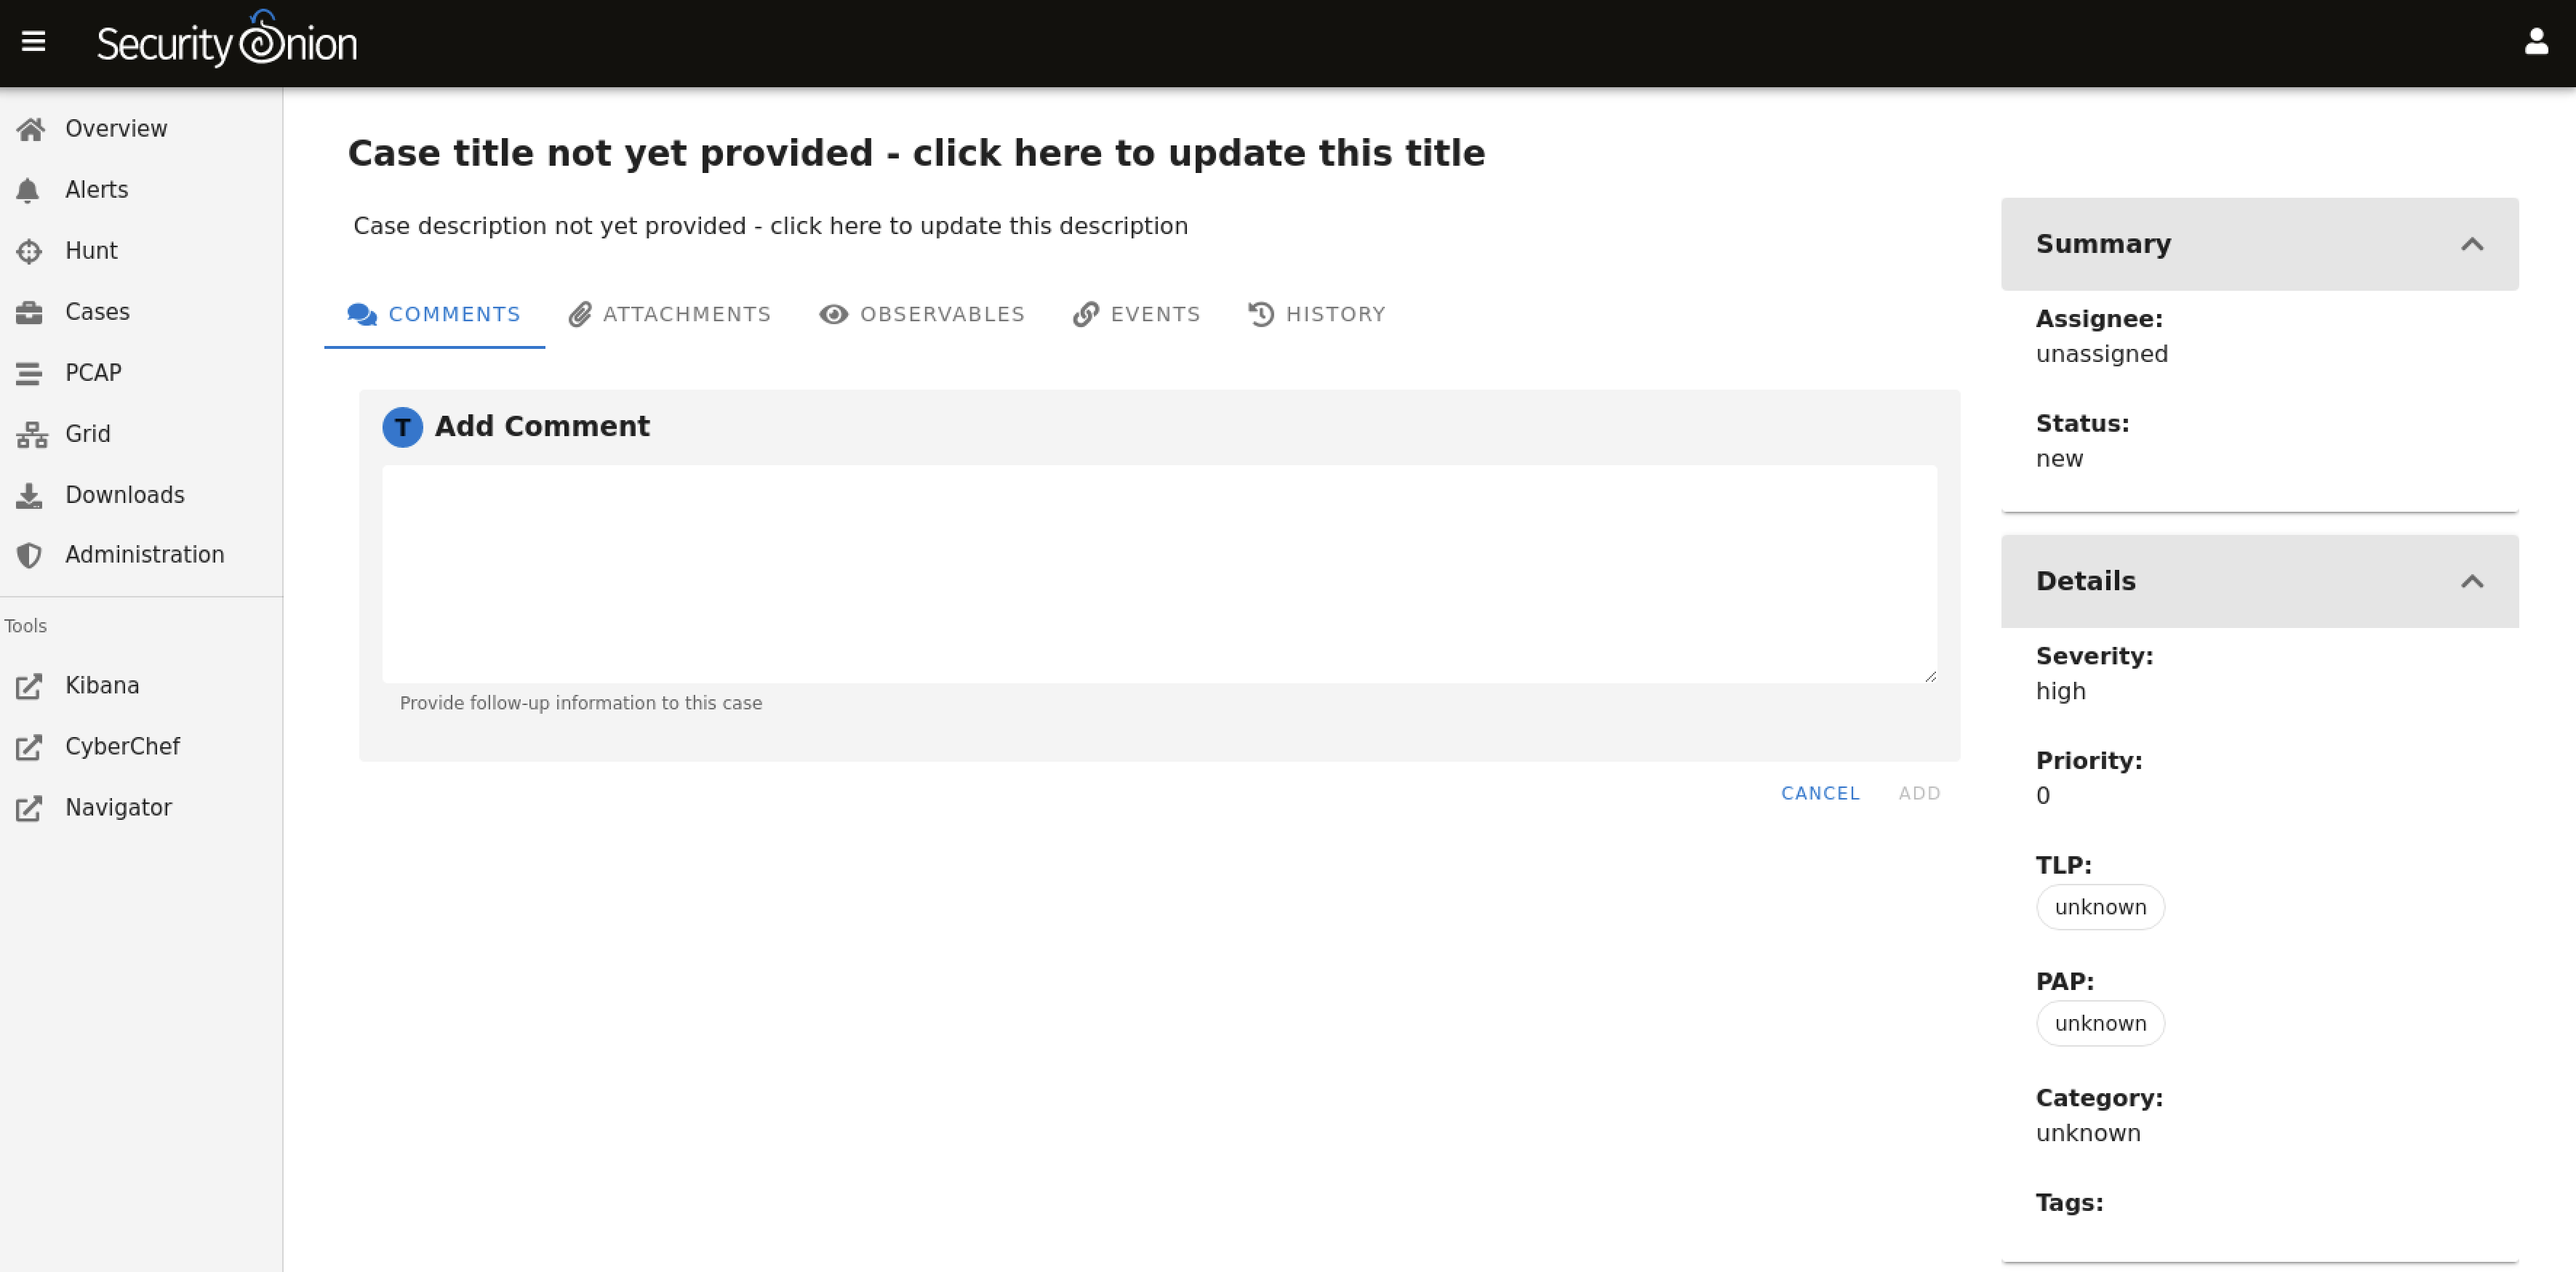
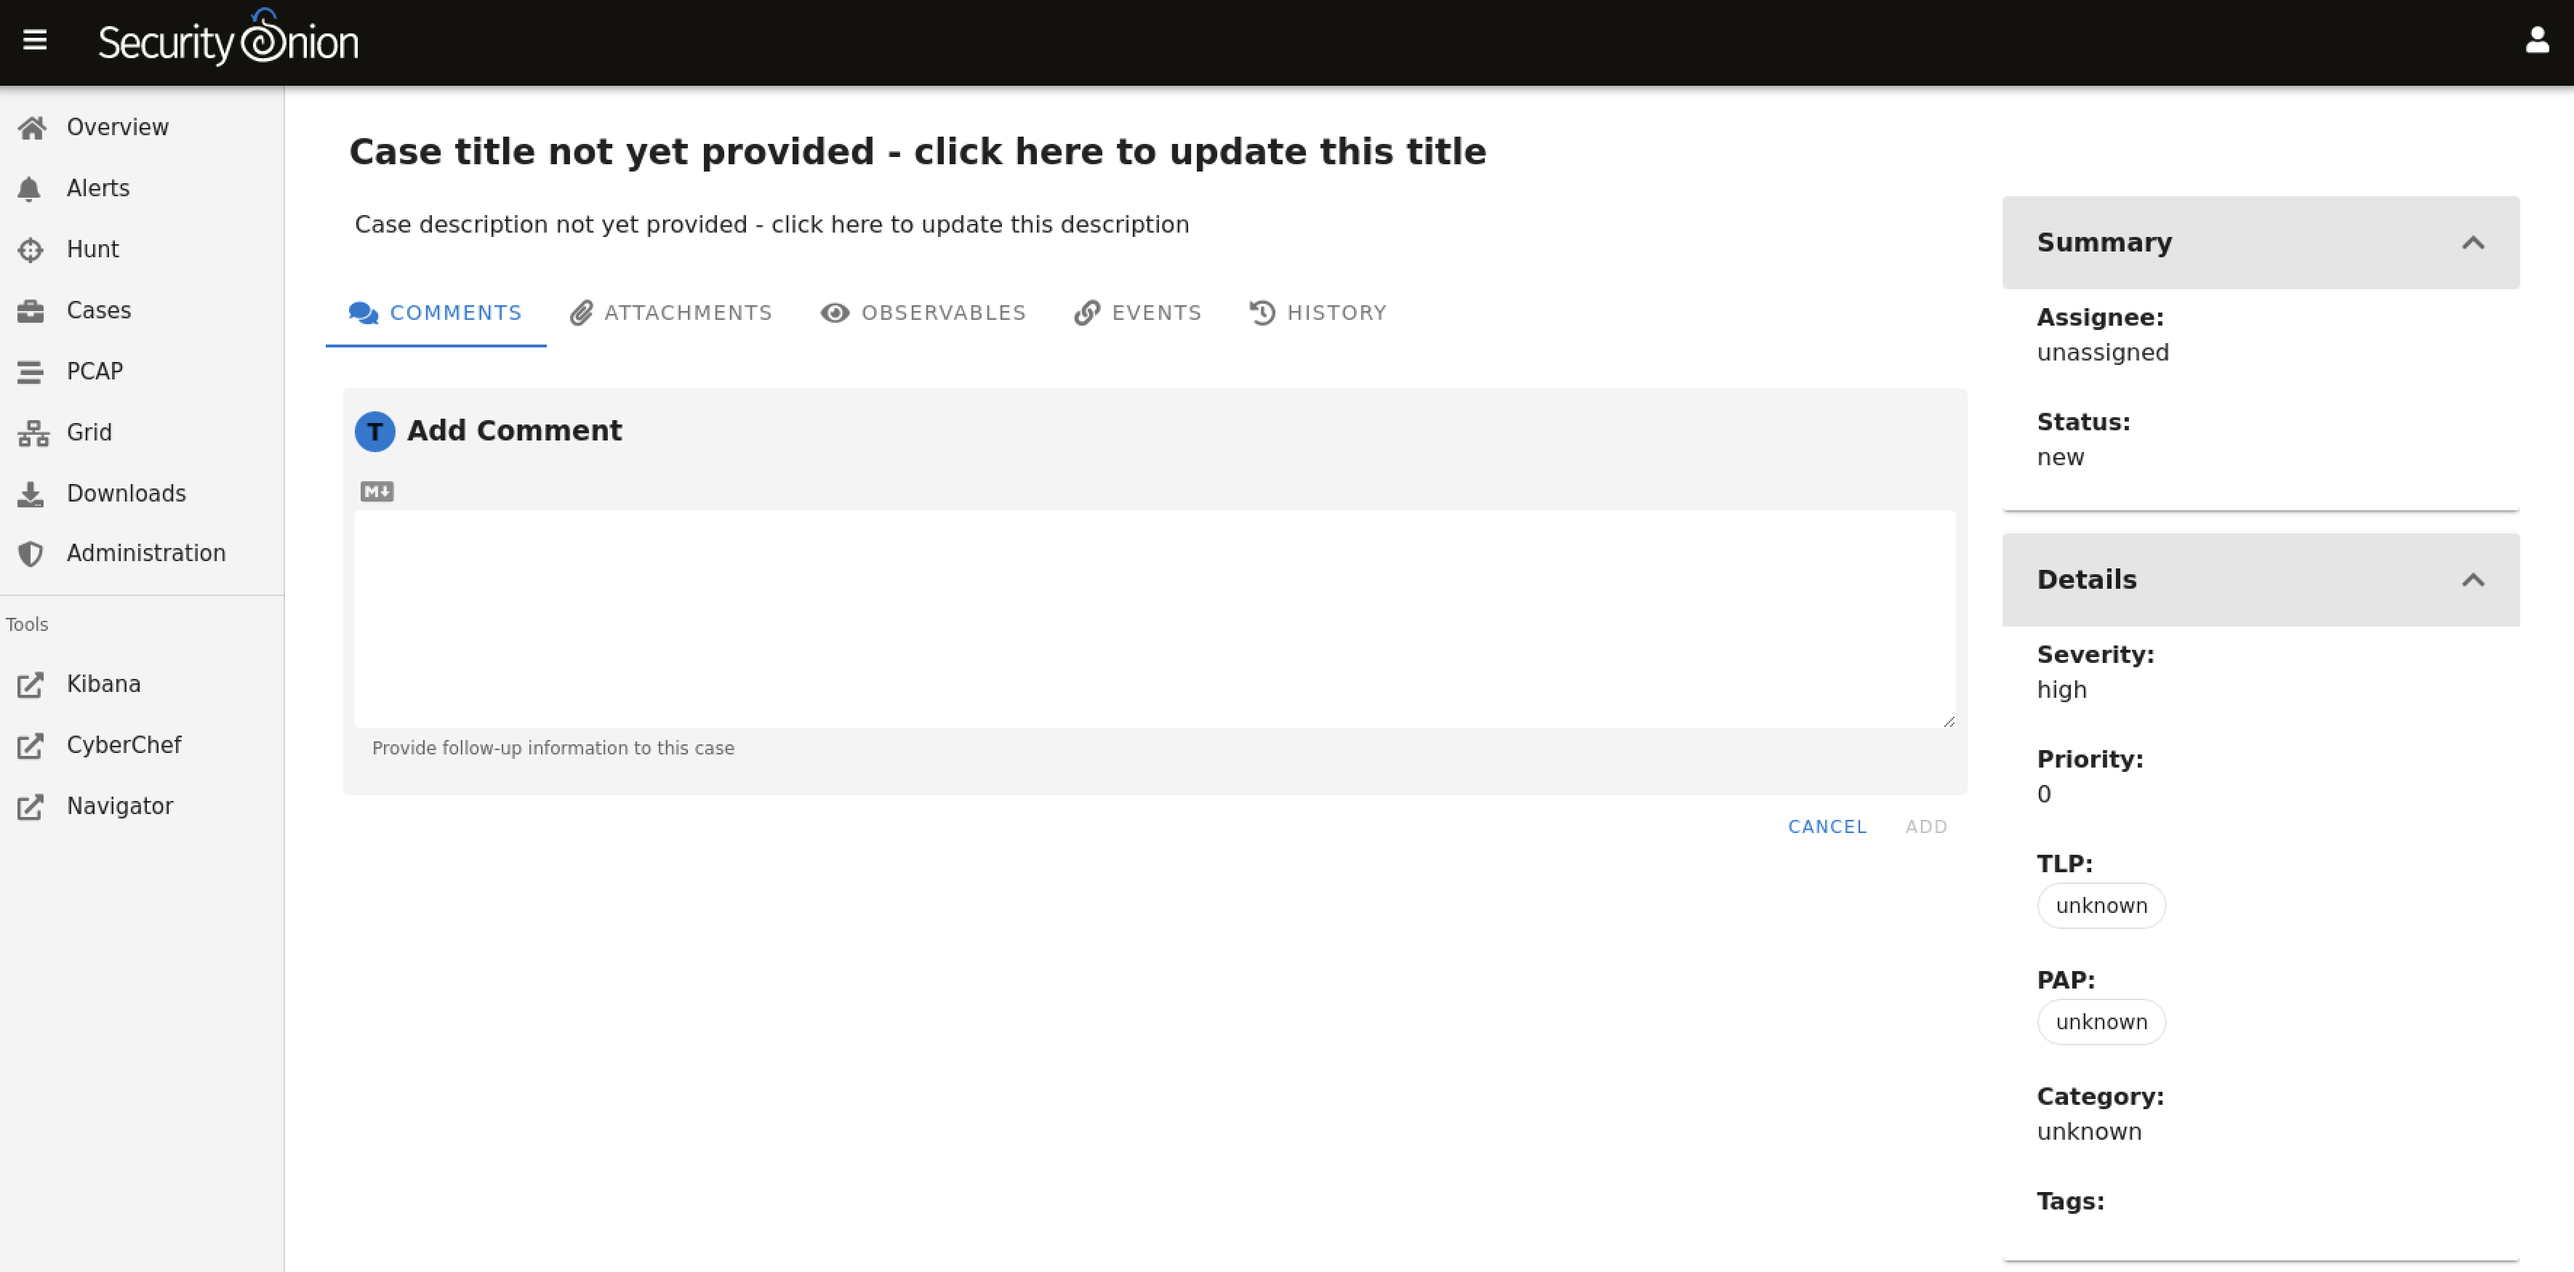
update cases

diff --git a/cases.rst b/cases.rst
@@ -21,7 +21,7 @@ Alternatively, if you find events of interest in :ref:`alerts` or :ref:`hunt`, y
 Comments
 --------
 
-On the Comments tab, you can add comments about the case. The Comments field uses Github flavored markdown and you can read more about that at https://docs.github.com/en/github/writing-on-github/getting-started-with-writing-and-formatting-on-github/basic-writing-and-formatting-syntax.
+On the Comments tab, you can add comments about the case. The Comments field uses markdown syntax and you can read more about that at https://www.markdownguide.org/.
 
 .. image:: images/cases-comments.png
   :target: _images/cases-comments.png
